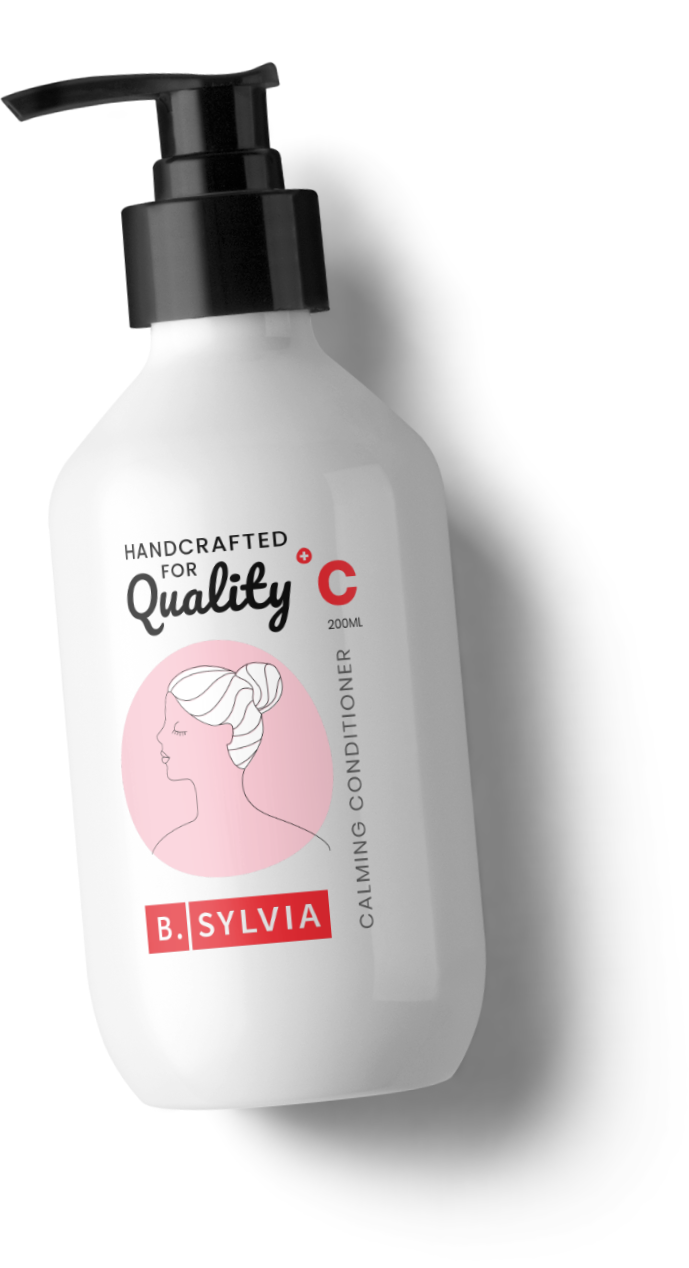
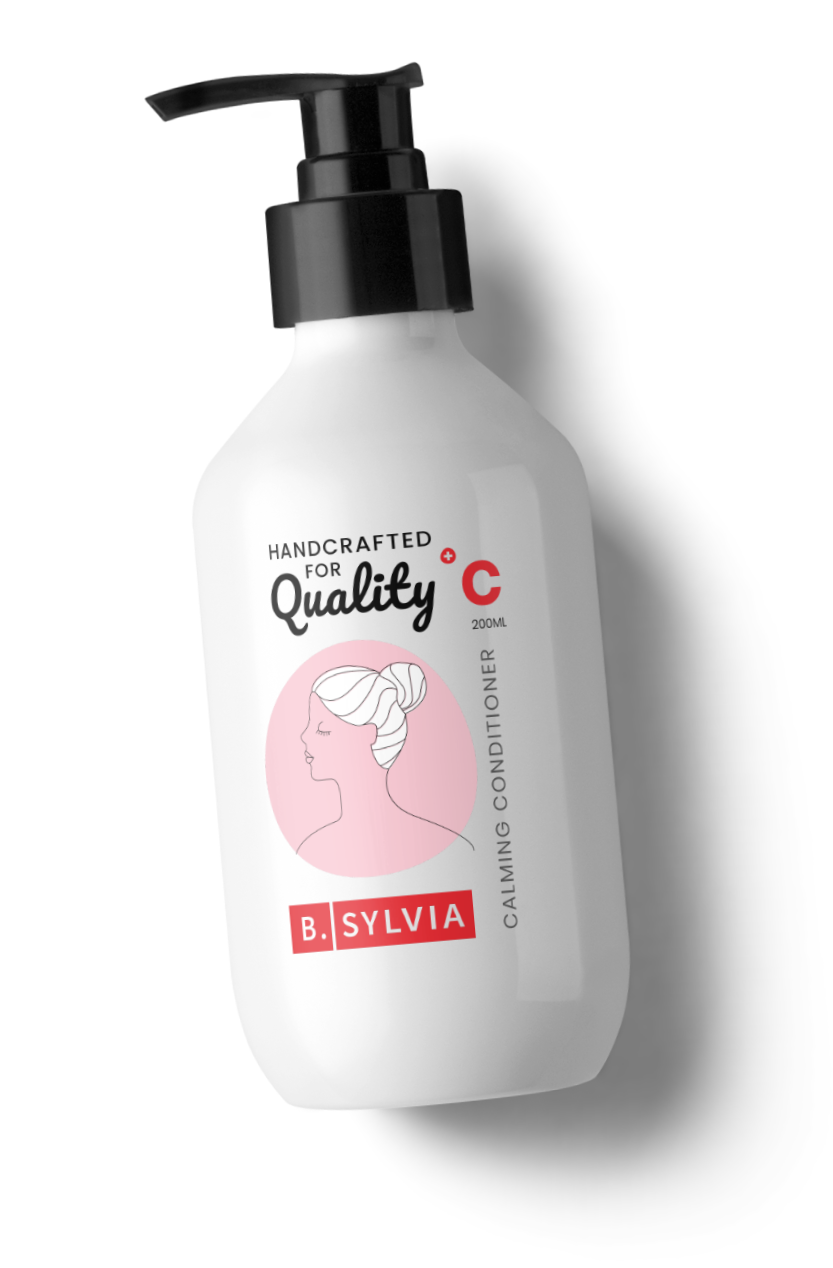
structure change

diff --git a/beauty/index.html b/beauty/index.html
@@ -24,11 +24,28 @@
         <h1 class="up-text"><span class="handwritten">your</span> unique style made easy</h1>
         <p class="small-text up-text">Look & feel fantasic!</p>
         <p >Lorem ipsum dolor sit amet, consectetur adipisicing elit, sed do eiusmod tempor incididunt ut labore et dolore magna aliqua. Ut enim ad minim veniam, quis nostrud exercitation ullamco laboris nisi ut aliquip ex ea commodo consequat.</p>
-        <a href="#hero" class="ctc">Find what you're looking for <i class="fas fa-arrow-right fa-1x"></i></a>
+
+        <a href="#hero" class="ctc">
+          Find what you're looking for 
+          <i>
+            <svg x="0px" y="0px" viewBox="0 0 50 50" >
+              <path class="st0" d="M32.1,48.5c16.8-5,23.4-26,11.3-39.8C27.3-9.6-3.2,4.6,0.8,29.1C3,43.1,17.5,52.9,32.1,48.5z M47.3,21.9 c1.6,12.2-6.5,22.9-18,25.2c-2.4,0.5-4.5,0.4-4.4,0.4C13.4,47.5,4,38.8,2.7,28.1C-1.5-0.3,42.9-8.7,47.3,21.9z"/>
+              <path class="st0" d="M12.1,25.7c0.7,0,18.5,0.3,21.8,0.2c-2.4,2.3-4.4,3.5-8.2,7.3c-2,2.1,0.6,3.6,1.5,2.4c0.7-0.8,9.6-9,10.6-10.1 c0.8-0.4,1.2-1.5,0.3-2.5c-0.9-0.9-8.7-5.4-10.3-6.3c-2.4-1.4-4.2-2.9-5-1.5c-1,1.7,1.5,2.2,10.6,7.8c-21.4,0.6-22.6-0.6-22.6,1.5 C10.8,25.2,11.4,25.7,12.1,25.7z"/>
+            </svg>
+          </i>
+        </a>
+        
       </div> 
       <div class="col-sm-12 col-md-6 col-lg-3 bottle" >
         <a href="#products">
-        <img alt="B. SYLVIA Calming Conditioner product image" src="img/hero-product.png" class="img-fluid">
+        <figure>
+          <svg x="0px" y="0px" viewBox="0 0 843.5 1275.5">
+            <path class="st0" d="M774.2,842.7c0.4-9.6-7.5-24.8-15.5-32c9.4-10.6,8.6-25.2-4.6-34.6c-12.4-8.9-32.6-14.8-42.7-16.9 c14.3-5.6,22.1-5.1,20.9-8.6c-0.3-0.8-1.1-1.3-2.2-1c-3.5,0.9-24.8,6.8-23.8,10.3c-1.3,2.4,4.7,5.1,15.3,19.6 c0.6,0.8,1.2,1.6,1.9,2.2c1.4,1.1,3.2-0.6,2.2-2c-4.4-6.4-6.3-7.9-15.1-17.9c30.9,6.7,65.3,22.5,45,46.4c-7.8-5.8-16.4-8.3-25.3-4.3 c-3.5,1.6-5.6,3.9-4.7,7.6c2.6,12.2,22.4,9.8,31.3,1c9.6,8.6,14.9,22.1,15.3,28.1c0.3,5.5-1.2,7.6,0.4,7.9 C773.8,848.8,774,847.8,774.2,842.7z M729.5,813c-0.6-1.3-1.1-2.9-0.5-4.2c1.9-2.6,12.1-7.4,24.8,1.4C747,816.8,733,818.7,729.5,813z"/>
+            <path class="st0" d="M587.1,312.9c2.5,1.2,4.8-5.1,18.5-16.6c0.7-0.6,1.5-1.3,2.1-2.1c1-1.5-0.8-3.1-2.2-2 c-6.1,4.8-7.4,6.8-16.8,16.2c1-6.7,2.4-13.6,4.3-20.2c0.3-1,0.6-2,0.9-3.1c0,0,0-0.1,0-0.1l0,0c4.7-15.7,11.9-38.3,21.3-47.2 c4.8,24.3,20.1,21.6,24.5,15.2c8-11.6-7.2-30.1-22.8-20.1c-3.7-32.8,21.9-67.5,51.4-65.7c-4,14-0.4,33.2,6.9,42.5 c14.2,18,33-4.4,21.5-26.1c-5.1-9.8-10.9-14.4-20.3-17.7c-1.8-0.6-3.4-0.9-4.9-1.1c5.2-14.4,11.5-21.2,24.9-27.1 c8.3-3.7,13.7-1.9,18.8,1.4c4.2,2.8,5,4.6,5.9,3.4c0.7-0.8,0-1.4-3.3-3.9c-7.7-5.7-13.4-5.8-20.3-3.5c-15,4.9-23.9,15.6-28.5,29.5 c-33.6-2.3-59,36.9-54.4,70c-11.5,9.7-19.1,35.3-24.6,54l0.1,0c-2.1,7.4-3.4,14.3-4.1,19c-6.5-13.9-6.5-21.8-9.9-20.3 c-0.8,0.3-1.3,1.1-0.9,2.3C576.4,293.3,583.6,314.2,587.1,312.9z M696.7,204.9c-8.9,25.4-34.9-5.9-25.9-37.4  C688.3,169.4,701.5,188.8,696.7,204.9z M617.4,236.1c15.1-11.6,29.4,11.5,17.8,17.9C624.9,258.9,619.3,247.1,617.4,236.1z"/>
+            <path class="st0" d="M247.1,1123.2c-1.4-2.4-6.8,1.6-24.6,3.6c-1,0.1-2,0.2-2.9,0.6c-1.7,0.7-1,3,0.7,2.9c7.8-0.6,10-1.6,23-4.2 c-4.6,5-9.6,10-14.7,14.4c-0.8,0.7-1.6,1.3-2.5,2.1c0,0-0.1,0.1-0.1,0.1l0,0c-12.6,10.5-31.1,25.3-43.8,27.5 c9.4-22.9-4.8-29.1-12-26.2c-13.1,5.2-10.6,29.1,7.9,29.3c-15.1,29.4-55.6,44.1-79.2,26.3c11.1-9.4,18.7-27.4,17.8-39.3 c-1.9-22.9-29.9-14.6-32.4,9.9c-1.1,11,1.1,18.1,7.2,26c1.2,1.5,2.3,2.6,3.5,3.7c-12.3,9.1-21.4,11.3-35.7,8.8 c-9-1.6-12.4-6-14.9-11.6c-2-4.6-1.6-6.6-3.1-6.1c-1,0.3-0.8,1.2,0.6,5.1c3.3,9,8,12.2,15,14.1c15.3,4.2,28.6,0.2,40-8.8 c26.7,20.5,69.6,1.8,84.1-28.2c15-1.7,35.4-18.9,50.3-31.4l0,0c5.8-5,10.8-10.1,13.9-13.6c-2.2,15.2-6.6,21.7-3,22.4 c0.8,0.1,1.7-0.3,2-1.4C245.1,1145.4,250.7,1124.1,247.1,1123.2z M96,1152.6c21.5-16.2,25.8,24.2,0.9,45.5 C83.4,1186.8,83.1,1163.4,96,1152.6z M179.3,1170.5c-19,1.3-18.1-25.8-4.9-24.8C185.7,1147.4,183.8,1160.2,179.3,1170.5z"/>
+          </svg>
+          <img alt="B. SYLVIA Calming Conditioner product image" src="img/hero-product.png" class="img-fluid">
+        </figure>        
         </a>
       </div>
     </div>

diff --git a/index.html b/index.html
@@ -23,7 +23,7 @@
 </section>
 
 <section class="branding educapps" id="educapps">
-<a href="https://jenniferharper.github.io/portfoio/education-app/" target="_blank">
+<a href="/portfoio/education-app/" target="_blank">
   <div class="container-fluid">
     <div class="row">
       <div class="col-sm-12 col-md-6 bg-color">
@@ -114,7 +114,7 @@
       </div>
       <div class="col-sm-12 col-md-6 ">
         <figure class="media-box">
-          <img src="https://jenniferharper.github.io/portfoio/education-app/img/img-three.jpg" class="zoom" alt="">  
+          <img src="/portfoio/education-app/img/img-three.jpg" class="zoom" alt="">  
         </figure>        
       </div>
     </div>
@@ -124,17 +124,17 @@
   
 
 <section class="branding bsylvia">
-  <a href="https://jenniferharper.github.io/portfoio/beauty/" target="_blank">
+  <a href="/portfoio/beauty/" target="_blank">
   <div class="container-fluid">
     <div class="row">
     <div class="col-sm-12 col-md-6">
       <figure class="media-box">
-        <img src="https://jenniferharper.github.io/portfoio/beauty/img/model-02.jpg" class="zoom" alt="">  
+        <img src="/portfoio/beauty/img/model-02.jpg" class="zoom" alt="">  
       </figure>   
     </div>
     <div class="col-sm-12 col-md-6 ">
       <figure class="media-box">
-        <img src="https://jenniferharper.github.io/portfoio/beauty/img/product-02.jpg" class="zoom" alt="">  
+        <img src="/portfoio/beauty/img/product-02.jpg" class="zoom" alt="">  
       </figure>      
     </div>
   </div>
@@ -145,17 +145,17 @@
 
 
     <section class="branding yoga">
-      <a href="https://jenniferharper.github.io/smooth/" target="_blank">
+      <a href="/portfoio/yogaStudio/" target="_blank">
       <div class="container-fluid">
         <div class="row">
           <div class="col-sm-12 col-md-6">
             <figure class="media-box">
-              <img src="https://jenniferharper.github.io/smooth/img/yoga-1.jpg" class="zoom" alt="">  
+              <img src="/portfoio/yogaStudio/img/bg-01.jpg" class="zoom" alt="">  
             </figure>      
           </div>
           <div class="col-sm-12 col-md-6 ">
             <figure class="media-box">
-              <img src="https://jenniferharper.github.io/smooth/img/bg-01.jpg" class="zoom" alt="">   
+              <img src="/portfoio/yogaStudio/img/bg-01.jpg" class="zoom" alt="">   
             </figure>        
           </div>
         </div>
@@ -163,19 +163,19 @@
     </a>
     </section> 
 
-
+  
     <section class="branding party">
-      <a href="https://jenniferharper.github.io/party/" target="_blank">
+      <a href="/portfoio/indieBand/" target="_blank">
       <div class="container-fluid">
         <div class="row">
           <div class="col-sm-12 col-md-6">
             <figure class="media-box">
-              <img src="https://jenniferharper.github.io/party/img/20.jpg" class="zoom" alt="">  
+              <img src="/portfoio/indieBand/img/20.jpg" class="zoom" alt="">  
             </figure>      
           </div>
           <div class="col-sm-12 col-md-6 ">
             <figure class="media-box">
-              <img src="https://jenniferharper.github.io/party/img/bg-1.jpg" class="zoom" alt="">   
+              <img src="/portfoio/indieBand/img/20.jpg" class="zoom" alt="">    
             </figure>        
           </div>
         </div>

diff --git a/beauty/css/styles.css b/beauty/css/styles.css
@@ -36,11 +36,13 @@ a, p, li {
   z-index: 1;
   line-height: 1.7em;
   font-size: 18px;
-  margin-bottom: 0; }
+  margin-bottom: 0;
+  transition: all 0.3s ease-in-out; }
 
 a:hover {
   color: #2d2929;
-  text-decoration: none; }
+  text-decoration: none;
+  transition: all 0.3s ease-in-out; }
 
 p, p span, p a, a {
   color: #2d2929; }
@@ -105,7 +107,16 @@ img {
   -o-object-position: 50% 50%;
   object-position: 50% 50%; }
 
-.after::before {
+.before::before {
+  content: '';
+  position: absolute;
+  width: 100%;
+  height: 100vh;
+  top: 0;
+  left: 0;
+  z-index: 0; }
+
+.after::after {
   content: '';
   position: absolute;
   width: 100%;
@@ -123,6 +134,32 @@ img {
     .styled .container-fluid .row .row {
       padding: 0; }
 
+a.ctc {
+  margin-top: 20px;
+  display: flex;
+  justify-content: center; }
+  a.ctc i {
+    padding: 0 0 0 20px;
+    animation-duration: 0.5s;
+    animation-name: changewidth;
+    animation-iteration-count: infinite;
+    animation-direction: alternate;
+    animation-timing-function: ease-in; }
+    a.ctc i svg {
+      width: 30px;
+      transform-origin: 50% 50%; }
+  @media (min-width: 992px) {
+    a.ctc {
+      justify-content: flex-start; } }
+  a.ctc:hover {
+    color: #f1353d;
+    fill: #f1353d; }
+
+@keyframes changewidth {
+  0% {
+    transform: scale(1); }
+  100% {
+    transform: scale(1.1); } }
 .hero {
   position: relative; }
   .hero .row {
@@ -171,20 +208,18 @@ img {
       .hero .bottle {
         max-width: 50%;
         margin: 0 auto; } }
+    .hero .bottle figure {
+      position: relative; }
+      .hero .bottle figure svg {
+        position: absolute;
+        top: 0;
+        left: 0;
+        width: 100%;
+        fill: #f1353d; }
   @media (min-width: 992px) {
     .hero .media-box {
       min-height: 80vh;
       height: 100%; } }
-  .hero .ctc {
-    margin-top: 20px;
-    display: flex;
-    justify-content: center;
-    align-items: center; }
-    .hero .ctc i {
-      padding: 0 0 0 20px; }
-    @media (min-width: 992px) {
-      .hero .ctc {
-        justify-content: flex-start; } }
 
 .pods {
   margin-bottom: 8%; }

diff --git a/beauty/sass/styles.scss b/beauty/sass/styles.scss
@@ -47,10 +47,12 @@ a, p, li{
   line-height:1.7em;
   font-size:18px;
   margin-bottom:0;
+  transition:all 0.3s ease-in-out;
 }
 a:hover{
   color:$dark;
   text-decoration: none;
+  transition:all 0.3s ease-in-out;
 }
 
 p, p span,p a,a{  color:$dark;}
@@ -126,17 +128,17 @@ img{
 } 
 
 
-// .before::before{
-//   content:'';
-//   position: absolute;
-//   width:100%;
-//   height:100vh;
-//   top:0;
-//   left:0;
-//   z-index: 0;
-// }
+.before::before{
+  content:'';
+  position: absolute;
+  width:100%;
+  height:100vh;
+  top:0;
+  left:0;
+  z-index: 0;
+}
 
-.after::before{
+.after::after{
   content:'';
   position: absolute;
   width:100%;
@@ -160,6 +162,39 @@ img{
     }
   }
 }
+
+a.ctc{
+  margin-top: 20px;
+  display: flex;
+  justify-content:center;
+  i{
+    padding: 0 0 0 20px ;
+    svg{
+      width: 30px;
+      transform-origin: 50% 50%;
+    }
+    animation-duration: 0.5s;
+    animation-name: changewidth;
+    animation-iteration-count: infinite;
+    animation-direction: alternate;
+    animation-timing-function:ease-in;
+  }
+
+  @media (min-width:992px){
+    justify-content:flex-start;
+  }
+
+  &:hover{
+    color:$secondary;
+    fill:$secondary;
+  }
+}
+
+@keyframes changewidth {
+  0%   { transform: scale(1)}
+  100% { transform: scale(1.1)}
+}
+
 //////////////general///////////////
 .hero{
 	position: relative;
@@ -218,6 +253,16 @@ img{
       max-width: 50%;
       margin: 0 auto;
     }
+    figure{
+      position: relative;
+      svg{
+        position:absolute;
+        top:0;
+        left: 0;
+        width: 100%;
+        fill:$secondary;
+      }
+    }
   }  
   .media-box{
     @media (min-width:992px){
@@ -225,16 +270,7 @@ img{
       height:100%;
     }
   }
-  .ctc{
-    margin-top: 20px;
-    display: flex;
-    justify-content:center;
-    align-items: center;
-    i{padding: 0 0 0 20px ;}
-    @media (min-width:992px){
-      justify-content:flex-start;
-    }
-  }
+
 }
 //////////////////////////////////////////
 .pods{
